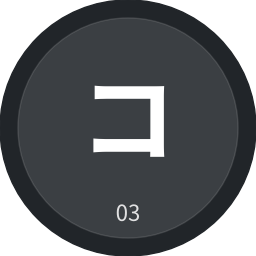
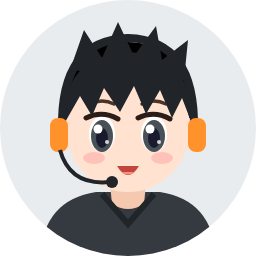
エージェント11人のアイコンをアニメ風の人型キャラに変更
Claude-Session: https://claude.ai/code/session_01AHMLZamYfWMCMwKmci4GF4

diff --git a/ops/avatars_anime.py b/ops/avatars_anime.py
@@ -1,0 +1,128 @@
+#!/usr/bin/env python3
+"""エージェント11人のアニメ風アイコン（オリジナル）をSVGで描き、PNG（256px）に書き出す。
+出力：ops/avatars/<key>.png と docs/team/<key>.png、一覧 docs/team/all.png
+"""
+import json, asyncio
+from pathlib import Path
+
+ROOT = Path(__file__).resolve().parent
+SKIN, SKIN_SH = "#ffe3d0", "#f5c9b0"
+
+# key: (背景, 髪色, 髪の影, 目の色, 服の色, 髪型, 小物, 表情)
+C = {
+    "ceo": ("#e5dbff", "#d0bfff", "#9775fa", "#7048e8", "#5f3dc4", "long", "crown", "smile"),
+    "01": ("#d3f9d8", "#2b8a3e", "#1e6b30", "#2b8a3e", "#ffffff", "bob", "pen", "smile"),
+    "02": ("#c5f6fa", "#15aabf", "#0c8599", "#0b7285", "#e3fafc", "short", "robot", "neutral"),
+    "03": ("#e9ecef", "#212529", "#000000", "#495057", "#343a40", "spiky", "headset", "open"),
+    "04": ("#ffdeeb", "#f783ac", "#e64980", "#d6336c", "#fff0f6", "twin", "star", "wink"),
+    "05": ("#ebfbee", "#2f4f3a", "#1b3022", "#5c940d", "#f8f0e3", "long", "beret", "smile"),
+    "06": ("#fff4e6", "#f08c00", "#d9480f", "#e8590c", "#fff9db", "pony", "band", "smile"),
+    "07": ("#dbe4ff", "#364fc7", "#1c2c8c", "#3b5bdb", "#495057", "messy", "goggles", "grin"),
+    "08": ("#fff3bf", "#fcc419", "#e67700", "#1c7ed6", "#ff8787", "wavy", "bow", "open"),
+    "09": ("#ffe3e3", "#c92a2a", "#8f1d1d", "#e03131", "#212529", "spiky", "cap", "grin"),
+    "10": ("#f1f3f5", "#495057", "#212529", "#343a40", "#212529", "slick", "glasses", "stern"),
+}
+
+
+def eyes(col, expr):
+    out = []
+    for i, x in enumerate((102, 154)):
+        if expr == "wink" and i == 1:
+            out.append(f'<path d="M{x-14},134 Q{x},124 {x+14},134" stroke="#3b2a24" stroke-width="5" fill="none" stroke-linecap="round"/>')
+            continue
+        ry = 13 if expr == "stern" else 18
+        out.append(f'<ellipse cx="{x}" cy="134" rx="13" ry="{ry}" fill="#fff"/>'
+                   f'<ellipse cx="{x}" cy="{136 if ry==18 else 135}" rx="11" ry="{ry-2}" fill="{col}"/>'
+                   f'<ellipse cx="{x}" cy="{138}" rx="6" ry="{ry-8}" fill="#1a1a2e"/>'
+                   f'<circle cx="{x-4}" cy="{129}" r="4.5" fill="#fff"/><circle cx="{x+5}" cy="{142}" r="2" fill="#fff" opacity=".8"/>'
+                   f'<path d="M{x-16},{134-ry+2} Q{x},{134-ry-6} {x+16},{134-ry+3}" stroke="#2b1d18" stroke-width="5" fill="none" stroke-linecap="round"/>')
+    brow = {"stern": ('M88,106 L116,112', 'M168,106 L140,112'), "open": ('M90,104 Q102,98 114,104', 'M142,104 Q154,98 166,104')}
+    b = brow.get(expr, ('M90,108 Q102,103 114,107', 'M142,107 Q154,103 166,108'))
+    out.append(''.join(f'<path d="{p}" stroke="#4a3328" stroke-width="3.5" fill="none" stroke-linecap="round"/>' for p in b))
+    return ''.join(out)
+
+
+def mouth(expr):
+    return {
+        "smile": '<path d="M118,168 Q128,177 138,168" stroke="#b5463c" stroke-width="3.5" fill="none" stroke-linecap="round"/>',
+        "open": '<path d="M117,166 Q128,184 139,166 Z" fill="#c2453b"/><path d="M121,172 Q128,177 135,172" fill="#ff8a80"/>',
+        "grin": '<path d="M114,165 Q128,183 142,165 Z" fill="#fff" stroke="#b5463c" stroke-width="3"/>',
+        "wink": '<path d="M118,167 Q128,178 138,167" stroke="#b5463c" stroke-width="3.5" fill="none" stroke-linecap="round"/>',
+        "neutral": '<path d="M120,170 L136,170" stroke="#b5463c" stroke-width="3.5" stroke-linecap="round"/>',
+        "stern": '<path d="M118,172 Q128,168 138,172" stroke="#8a3a32" stroke-width="3.5" fill="none" stroke-linecap="round"/>',
+    }[expr]
+
+
+def back_hair(style, h, s):
+    return {
+        "long": f'<path d="M58,120 Q56,40 128,38 Q200,40 198,120 L204,236 L52,236 Z" fill="{s}"/>',
+        "wavy": f'<path d="M56,120 Q54,38 128,36 Q202,38 200,120 Q214,160 200,190 Q214,215 196,236 L60,236 Q42,215 56,190 Q42,160 56,120 Z" fill="{s}"/>',
+        "bob": f'<path d="M58,118 Q56,42 128,40 Q200,42 198,118 L200,176 Q190,186 176,180 L80,180 Q66,186 56,176 Z" fill="{s}"/>',
+        "twin": f'<ellipse cx="46" cy="160" rx="24" ry="56" fill="{s}"/><ellipse cx="210" cy="160" rx="24" ry="56" fill="{s}"/><path d="M60,118 Q58,42 128,40 Q198,42 196,118 Z" fill="{s}"/>',
+        "pony": f'<path d="M180,70 Q236,80 226,170 Q214,140 196,120 Z" fill="{s}"/><path d="M60,118 Q58,42 128,40 Q198,42 196,118 Z" fill="{s}"/>',
+    }.get(style, f'<path d="M62,118 Q60,44 128,42 Q196,44 194,118 Z" fill="{s}"/>')
+
+
+def front_hair(style, h):
+    if style in ("spiky", "messy"):
+        top = '<path d="M70,70 L84,30 L102,58 L118,22 L134,56 L156,26 L162,60 L188,40 L184,80 Z" fill="%s"/>' % h
+        return top + f'<path d="M64,124 Q62,56 128,52 Q194,56 192,124 L182,98 L172,118 L160,90 L146,114 L134,86 L120,112 L104,88 L92,116 L80,96 Z" fill="{h}"/>'
+    if style == "slick":
+        return f'<path d="M64,118 Q60,52 128,48 Q196,52 192,118 Q186,84 160,76 Q120,70 96,82 Q72,92 64,118 Z" fill="{h}"/>'
+    bangs = f'<path d="M62,126 Q60,50 128,46 Q196,50 194,126 L184,100 L172,116 L162,92 L146,112 L136,88 L122,110 L108,90 L96,114 L84,96 L74,118 Z" fill="{h}"/>'
+    side = f'<path d="M62,120 Q58,150 66,176 L74,130 Z" fill="{h}"/><path d="M194,120 Q198,150 190,176 L182,130 Z" fill="{h}"/>' if style in ("long", "wavy", "bob", "twin") else ''
+    return bangs + side + '<path d="M96,70 Q120,58 150,66" stroke="#fff" stroke-width="5" opacity=".35" fill="none" stroke-linecap="round"/>'
+
+
+def accessory(a, h, eye):
+    return {
+        "crown": '<path d="M98,52 L106,28 L118,46 L128,22 L138,46 L150,28 L158,52 Z" fill="#fcc419" stroke="#e67700" stroke-width="2"/><circle cx="128" cy="40" r="4" fill="#e64980"/><rect x="186" y="128" width="8" height="18" rx="3" fill="#7048e8"/><circle cx="190" cy="126" r="3" fill="#66d9e8"/>',
+        "pen": '<g transform="rotate(-35 196 96)"><rect x="190" y="60" width="9" height="56" rx="2" fill="#fab005"/><path d="M190,116 L194.5,128 L199,116 Z" fill="#495057"/><rect x="190" y="60" width="9" height="8" fill="#e64980"/></g>',
+        "robot": '<line x1="128" y1="48" x2="128" y2="20" stroke="#868e96" stroke-width="4"/><circle cx="128" cy="18" r="7" fill="#ff6b6b"/><circle cx="102" cy="136" r="19" fill="none" stroke="#343a40" stroke-width="3.5"/><circle cx="154" cy="136" r="19" fill="none" stroke="#343a40" stroke-width="3.5"/><line x1="121" y1="134" x2="135" y2="134" stroke="#343a40" stroke-width="3.5"/>',
+        "headset": '<path d="M62,130 Q60,40 128,38 Q196,40 194,130" stroke="#212529" stroke-width="8" fill="none"/><rect x="50" y="118" width="18" height="34" rx="8" fill="#ff922b"/><rect x="188" y="118" width="18" height="34" rx="8" fill="#ff922b"/><path d="M60,150 Q70,186 110,182" stroke="#212529" stroke-width="4" fill="none"/><circle cx="112" cy="182" r="6" fill="#212529"/>',
+        "star": '<path d="M174,70 L179,82 L192,83 L182,91 L186,104 L174,96 L162,104 L166,91 L156,83 L169,82 Z" fill="#fcc419" stroke="#f08c00" stroke-width="2"/>',
+        "beret": f'<ellipse cx="124" cy="52" rx="62" ry="20" fill="#c92a2a"/><path d="M70,58 Q128,8 182,52" fill="#c92a2a"/><circle cx="128" cy="26" r="5" fill="#a61e1e"/>',
+        "band": '<path d="M66,92 Q128,56 190,92" stroke="#fff" stroke-width="9" fill="none"/><circle cx="182" cy="86" r="9" fill="#ff6b6b"/>',
+        "goggles": '<rect x="74" y="62" width="108" height="16" rx="8" fill="#495057"/><circle cx="104" cy="70" r="15" fill="#99e9f2" stroke="#495057" stroke-width="5"/><circle cx="152" cy="70" r="15" fill="#99e9f2" stroke="#495057" stroke-width="5"/>',
+        "bow": '<path d="M150,52 L184,36 L182,72 Z M150,52 L120,36 L124,70 Z" fill="#ff6b6b"/><circle cx="152" cy="53" r="8" fill="#e03131"/>',
+        "cap": f'<path d="M66,84 Q66,34 128,32 Q190,34 190,84 Z" fill="#212529"/><path d="M60,84 L196,84 Q200,94 190,94 L66,94 Q56,94 60,84 Z" fill="#212529"/><text x="128" y="72" font-size="22" text-anchor="middle" fill="#fff" font-family="sans-serif" font-weight="bold">REC</text><circle cx="96" cy="64" r="5" fill="#fa5252"/>',
+        "glasses": '<rect x="84" y="122" width="38" height="26" rx="4" fill="none" stroke="#212529" stroke-width="4"/><rect x="134" y="122" width="38" height="26" rx="4" fill="none" stroke="#212529" stroke-width="4"/><line x1="122" y1="132" x2="134" y2="132" stroke="#212529" stroke-width="4"/>',
+    }[a]
+
+
+def svg(k):
+    bg, h, s, eye, cloth, style, acc, expr = C[k]
+    over = acc in ("crown", "beret", "cap", "band", "goggles", "star", "bow", "headset", "robot")
+    body = (f'<path d="M40,256 Q44,200 96,192 L160,192 Q212,200 216,256 Z" fill="{cloth}"/>'
+            f'<path d="M110,184 L146,184 L144,204 Q128,214 112,204 Z" fill="{SKIN_SH}"/>'
+            f'<path d="M102,194 L128,224 L154,194" stroke="{h if k!="10" else "#c92a2a"}" stroke-width="6" fill="none"/>')
+    face = (f'<ellipse cx="128" cy="128" rx="62" ry="64" fill="{SKIN}"/>'
+            f'<ellipse cx="66" cy="136" rx="8" ry="12" fill="{SKIN}"/><ellipse cx="190" cy="136" rx="8" ry="12" fill="{SKIN}"/>'
+            '<ellipse cx="94" cy="158" rx="11" ry="6" fill="#ffa8a8" opacity=".55"/><ellipse cx="162" cy="158" rx="11" ry="6" fill="#ffa8a8" opacity=".55"/>')
+    return (f'<svg xmlns="http://www.w3.org/2000/svg" viewBox="0 0 256 256" width="256" height="256">'
+            f'<defs><clipPath id="c"><circle cx="128" cy="128" r="128"/></clipPath></defs><g clip-path="url(#c)">'
+            f'<rect width="256" height="256" fill="{bg}"/>{back_hair(style, h, s)}{body}{face}'
+            f'{eyes(eye, expr)}{mouth(expr)}{front_hair(style, h)}{accessory(acc, h, eye) if over or acc in ("pen","glasses") else ""}'
+            '</g></svg>')
+
+
+async def render():
+    from playwright.async_api import async_playwright
+    out1, out2 = ROOT / "avatars", ROOT.parent / "docs" / "team"
+    out1.mkdir(exist_ok=True); out2.mkdir(parents=True, exist_ok=True)
+    A = json.load(open(ROOT / "agents.json", encoding="utf-8"))
+    async with async_playwright() as p:
+        b = await p.chromium.launch(); pg = await b.new_page(viewport={"width": 256, "height": 256})
+        for k in C:
+            await pg.set_content(f'<html><body style="margin:0;background:transparent">{svg(k)}</body></html>')
+            png = await pg.screenshot(omit_background=True, clip={"x": 0, "y": 0, "width": 256, "height": 256})
+            (out1 / f"{k}.png").write_bytes(png); (out2 / f"{k}.png").write_bytes(png)
+        cells = "".join(f'<div style="text-align:center;font:600 15px sans-serif;color:#343a40">{svg(k)}<br>{A[k]["name"]}<br><span style="font-weight:400;font-size:12px;color:#868e96">{A[k]["role"]}</span></div>' for k in C)
+        await pg.set_viewport_size({"width": 1660, "height": 640})
+        await pg.set_content(f'<html><body style="margin:0;background:#f6f7fb;font-family:Noto Sans CJK JP,sans-serif"><div style="display:grid;grid-template-columns:repeat(6,1fr);gap:12px;padding:16px">{cells}</div></body></html>')
+        (out2 / "all.png").write_bytes(await pg.screenshot(full_page=True))
+        await b.close()
+
+
+if __name__ == "__main__":
+    asyncio.run(render()); print("ok")
